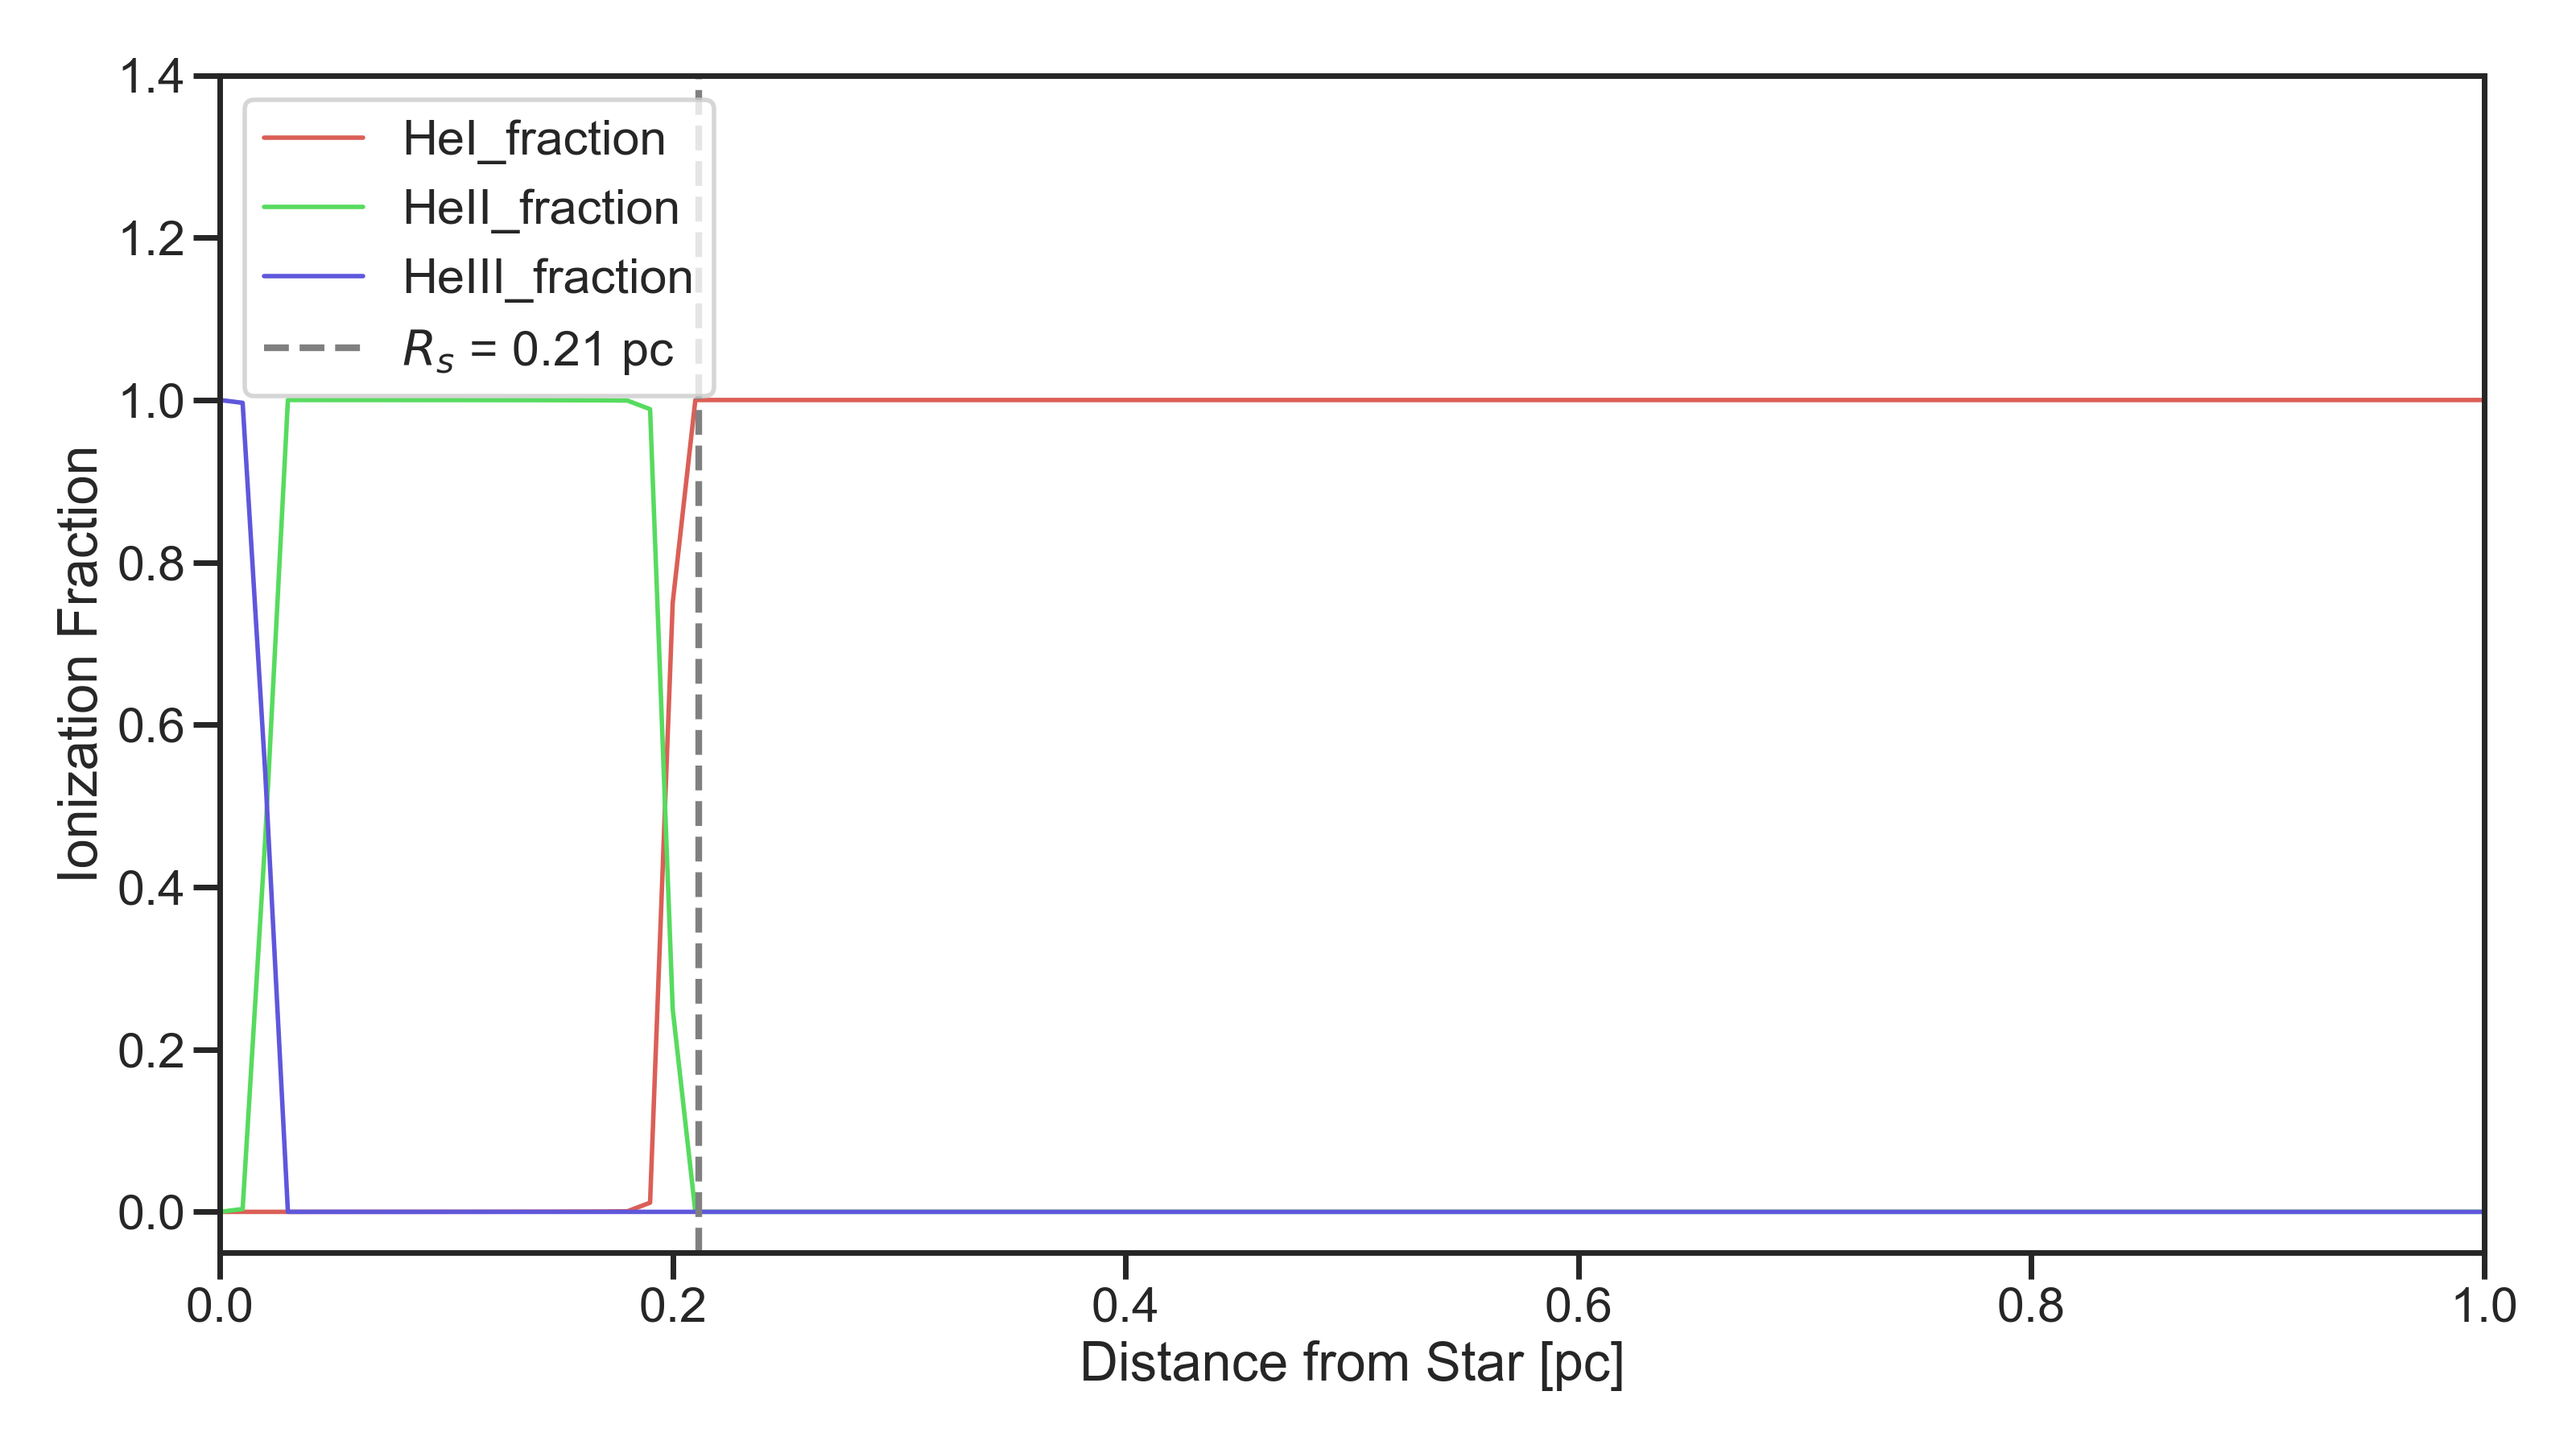
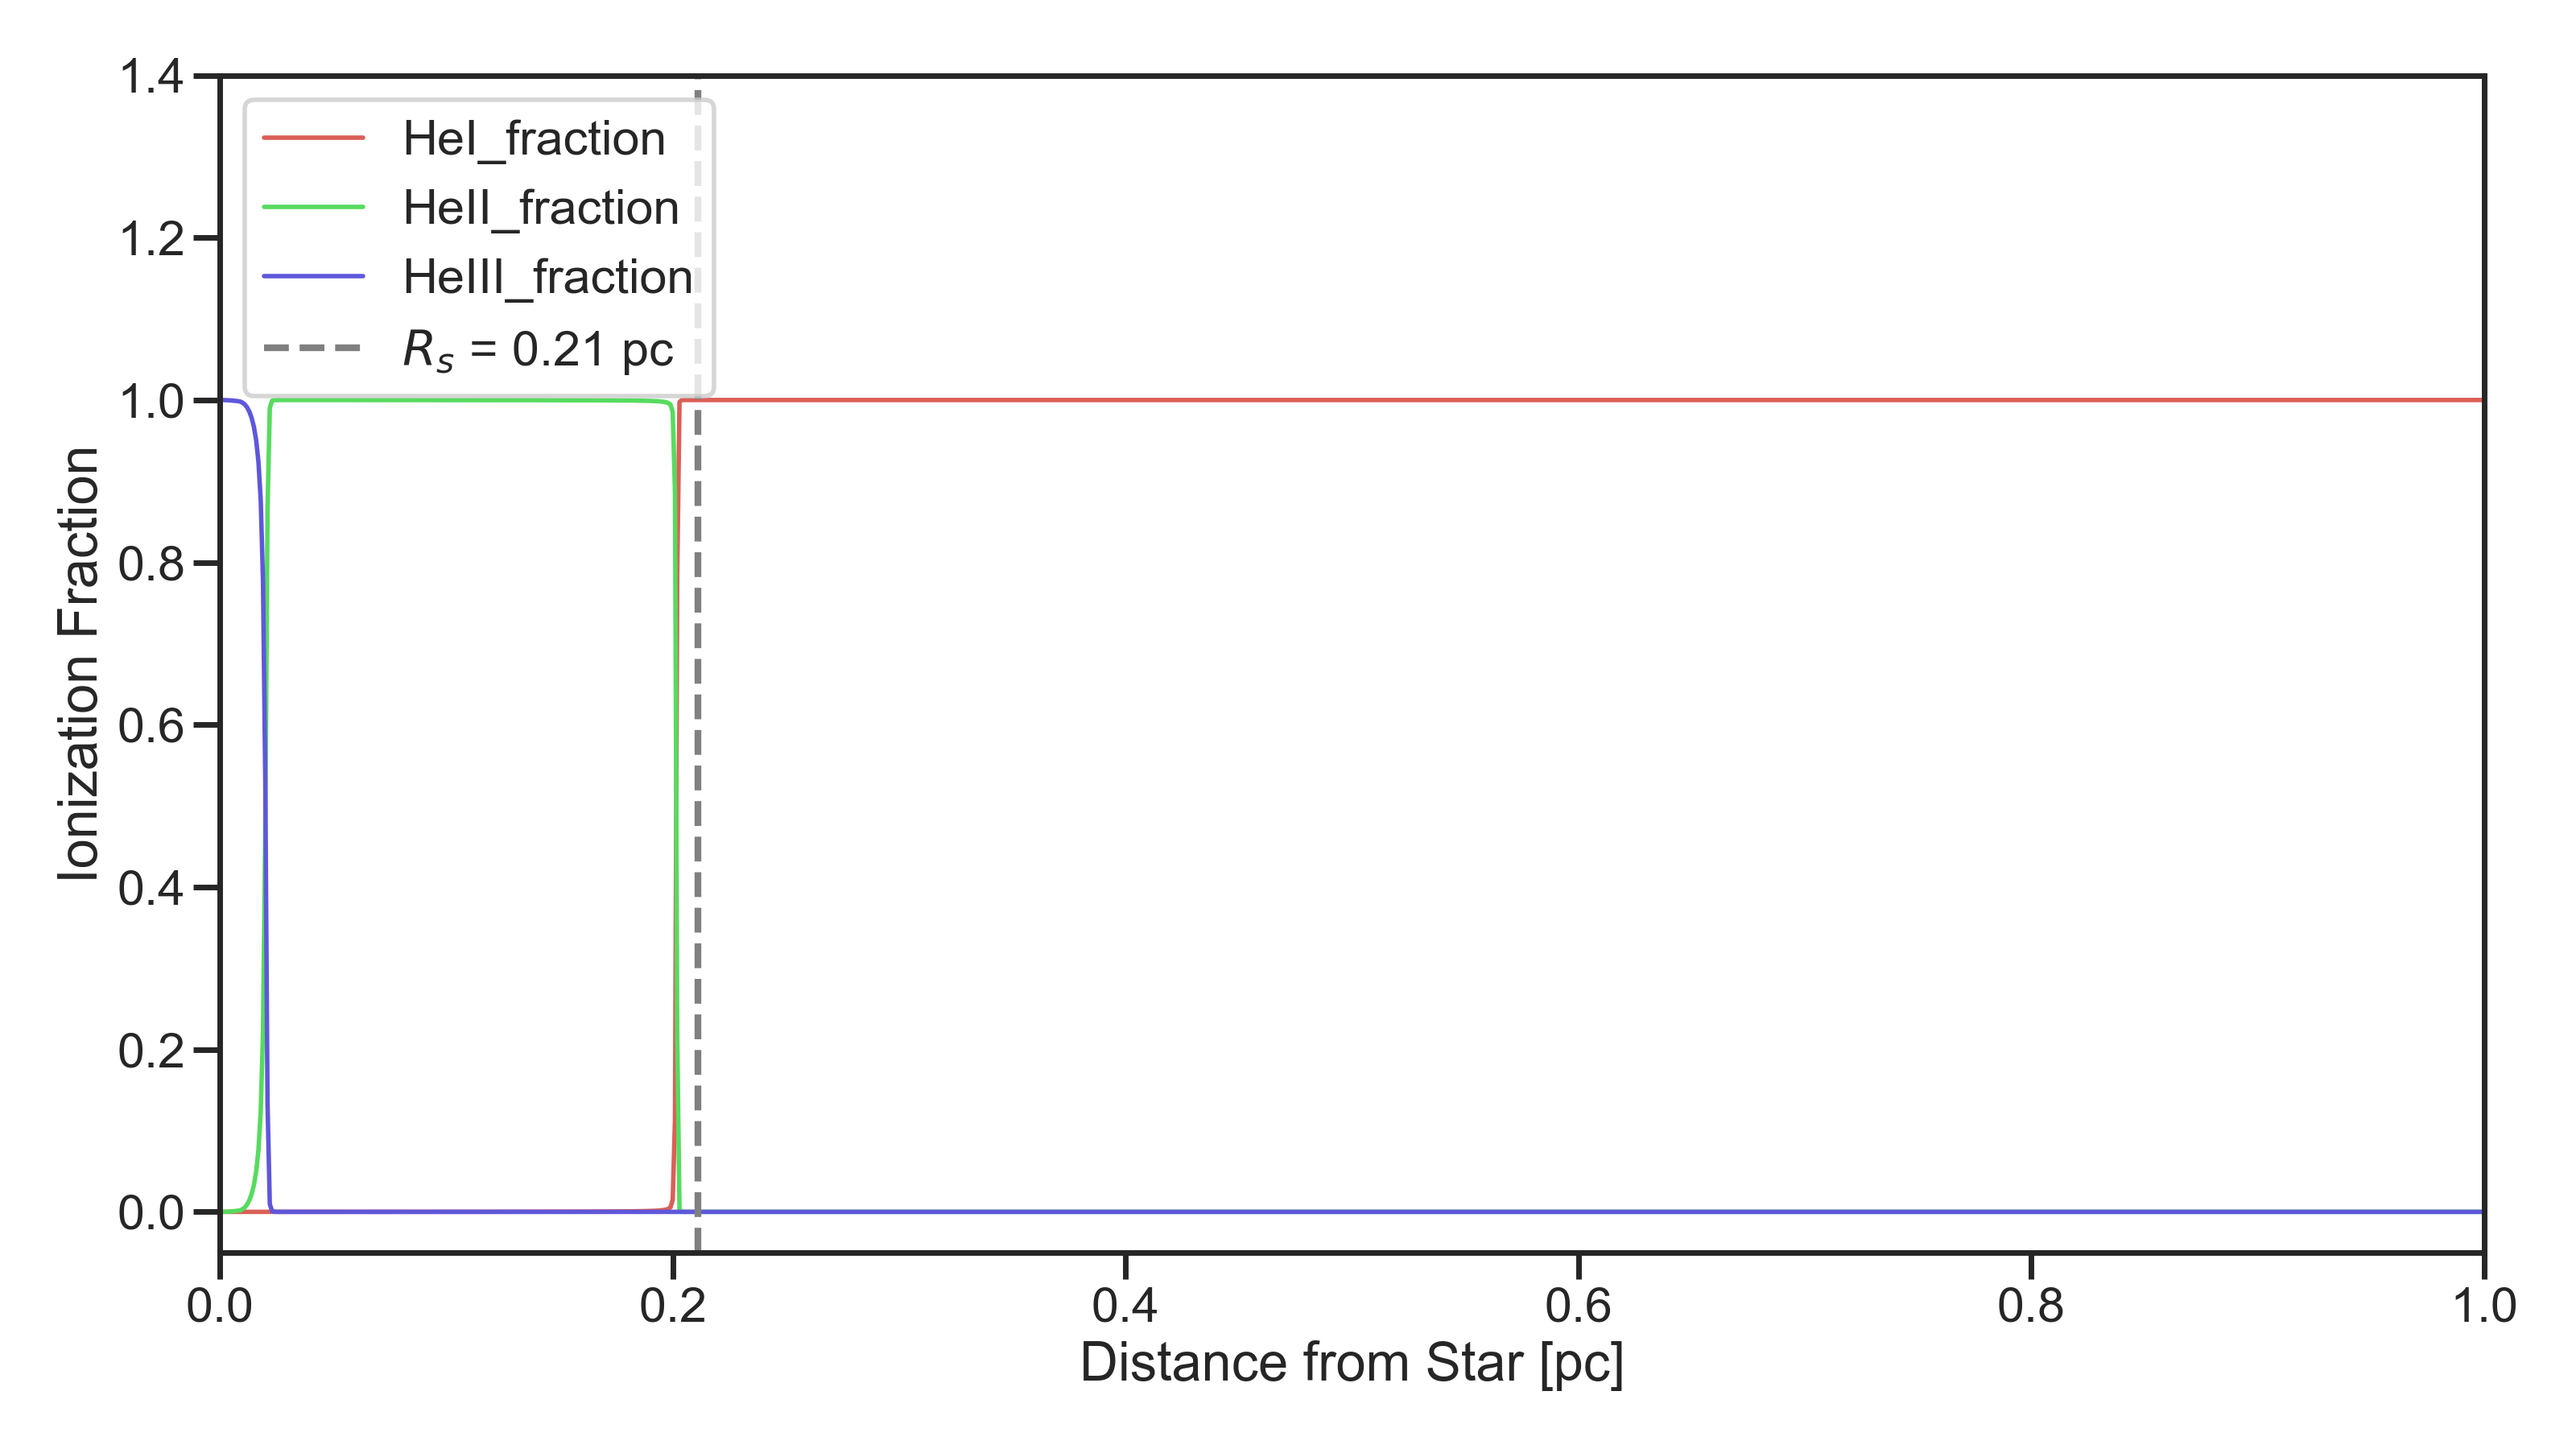
Deleted data directory

Changed region(s): [[0.25, 0.28, 0.2812, 0.84], [0.0938, 0.5911, 0.125, 0.84], [0.0938, 0.28, 0.125, 0.5289]]

diff --git a/source/run_simulation.py b/source/run_simulation.py
@@ -4,17 +4,18 @@
 import astropy.constants
 import astropy.units
 import numpy
-from equilibrium import PhotoionizationModel
-from visualization import plot_results
+
+import equilibrium
+import visualization
 
 
 if __name__ == "__main__":
-    radius_grid_array       = numpy.linspace(0.000e+00, 1.000e+00, 101)*astropy.constants.pc.to(astropy.units.cm)
+    radius_grid_array       = numpy.linspace(0.000e+00, 1.000e+00, 1001)*astropy.constants.pc.to(astropy.units.cm)
     hydrogen_number_density = 1.000e+04
     number_of_energy        = 1001
 
     # デフォルトのパラメータで計算器を初期化
-    model = PhotoionizationModel(radius_grid_array=radius_grid_array, hydrogen_number_density=hydrogen_number_density,
+    model = equilibrium.PhotoionizationModel(radius_grid_array=radius_grid_array, hydrogen_number_density=hydrogen_number_density,
         T_gas=1e4,        # ガスの温度 [K] (通常HII領域では約1万度)
         T_BB=4e4,         # 星の黒体放射温度 [K] (例: 高温なO型星)
         R_star_solar=10.0,  # 星の半径 (太陽半径の10倍と仮定)
@@ -24,5 +25,5 @@ if __name__ == "__main__":
     # 計算の実行
     model.setup_grids()
     model.calculate_equilibrium(N_packets=2000000, max_global_iterations=1)
-    plot_results(model)
+    visualization.plot_results(model)
     model.save_tsv()

diff --git a/source/equilibrium.py b/source/equilibrium.py
@@ -80,15 +80,7 @@ class PhotoionizationModel:
         self.nu_grid = numpy.linspace(HI_nu0, 1.000e+03*HI_nu0, self.N_nu)
         self.a_nu_grid = HI_anu(self.nu_grid)
         self.B_nu_grid = B_nu(self.nu_grid, self.T_BB)
-        
-        # 理論的なストロームグレン半径 R_s を事前計算 (比較用)
-        # ヘリウムによる電子密度の増加を考慮: n_e ≈ n_H(1 + Y_He) (完全電離時)
-        integrand_Q         = numpy.pi * self.B_nu_grid / (h * self.nu_grid)
-        Q_H0                = 4 * numpy.pi * self.R_star_cm**2 * numpy.trapezoid(integrand_Q, self.nu_grid)
-        n_e_fully_ionized   = self.hydrogen_number_density * (1.0 + Y_He)
-        self.R_s_cm         = (3 * Q_H0 / (4 * numpy.pi * self.hydrogen_number_density * n_e_fully_ionized * HI_alphaB(self.T_gas_init)))**(1/3)
-        self.R_s_pc         = self.R_s_cm / 3.086e18
-        print(f"理論的なストロームグレン半径 R_s = {self.R_s_pc:.2f} pc")
+
 
     def calculate_equilibrium(self, max_global_iterations=30, tolerance=1e-3, N_packets=200000):
         """
